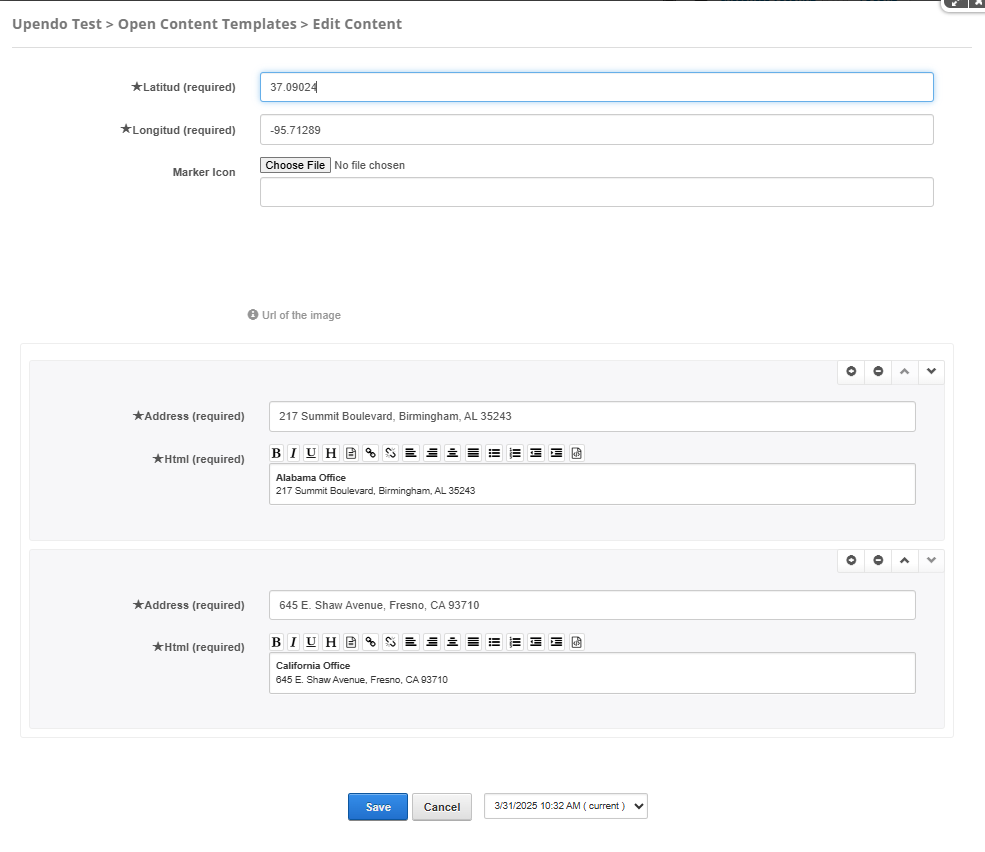
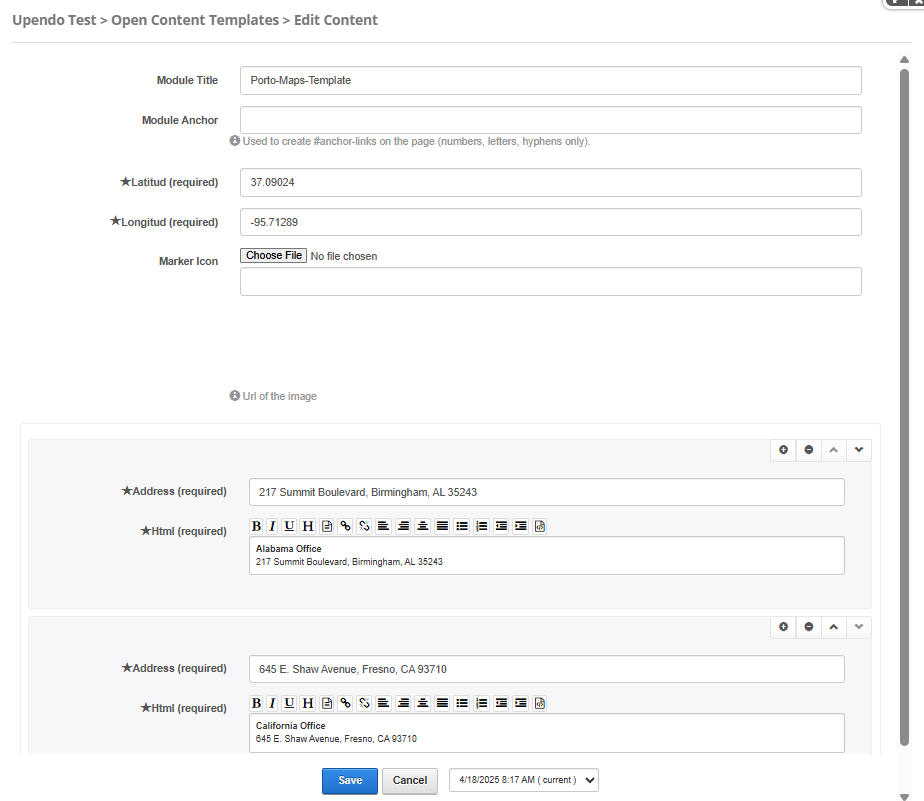
update Porto-Maps-Template doc

diff --git a/Porto-Maps-Template/Porto-Maps-Template.html b/Porto-Maps-Template/Porto-Maps-Template.html
@@ -221,6 +221,20 @@
                 </tr>
             </thead>
             <tbody>
+                <tr>
+                    <td>Module Title</td>
+                    <td>String</td>
+                    <td>Used to define the title of the module. This title is displayed in the DNN administration interface
+                        to help identify the module.</td>
+                    <td>Porto-Maps-Template</td>
+                </tr>
+                <tr id="module-anchor">
+                    <td>Module Anchor</td>
+                    <td>String</td>
+                    <td>Used to create anchor links on the page. This allows users to link directly to the module using a unique
+                        identifier. Only letters, numbers, and hyphens are allowed.</td>
+                    <td><code>example-module</code> (e.g., <a href="#note-section">Go to Note</a>)</td>
+                </tr>
                 <!-- Latitud -->
                 <tr>
                     <td>Latitud</td>
@@ -239,7 +253,7 @@
 
                 <!-- MarkerIcon -->
                 <tr>
-                    <td>MarkerIcon</td>
+                    <td>Marker Icon</td>
                     <td>String</td>
                     <td>Defines the URL of the custom marker icon.</td>
                     <td><code>https://example.com/marker-icon.png</code></td>
@@ -346,9 +360,11 @@
         <h3 class="Head">Views</h3>
         <img src="image/view.png" alt="Animation Style" class="component-image">
 
-        <div class="note">
+        <div id="note-section" class="note">
             <strong>Note:</strong> Ensure that the <strong>Latitud</strong> and <strong>Longitud</strong> properties are
             set correctly to center the map on the desired location.
+            <br><br>
+            <a href="#module-anchor" style="color: #6d5a2c; text-decoration: underline;">Back to Module Anchor</a>
         </div>
     </div>
 </body>
